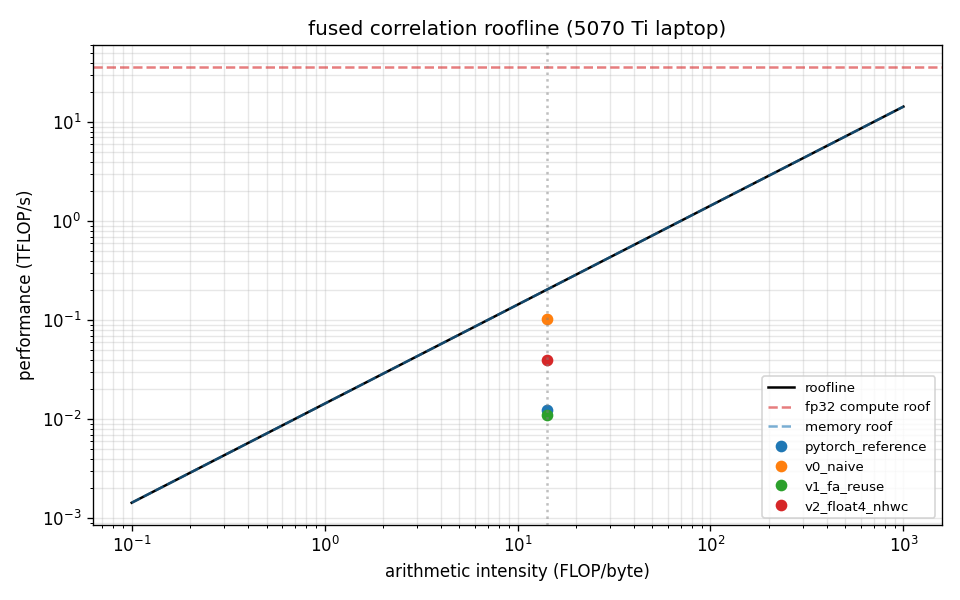
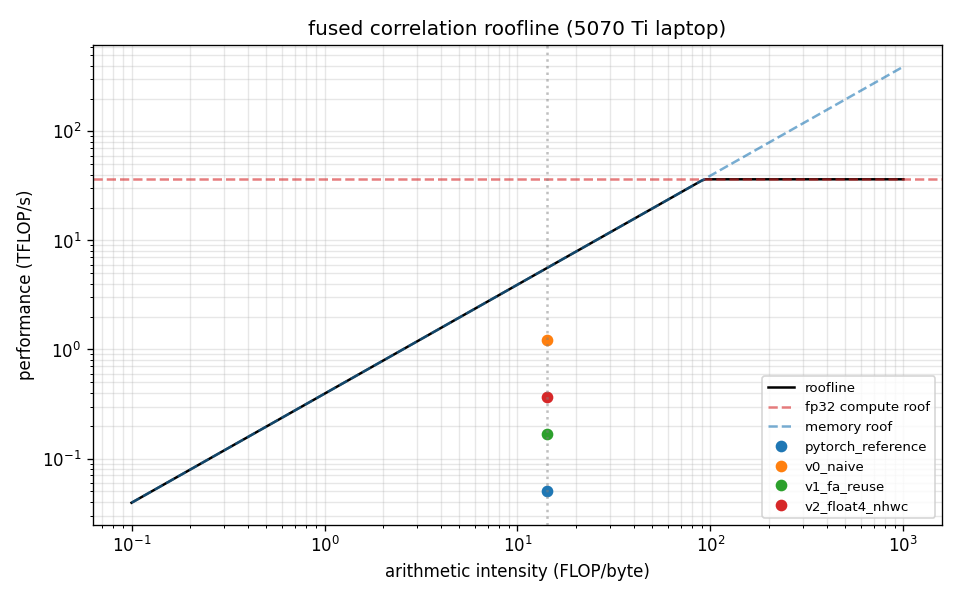
rerun the systems study at full GPU clocks
the GPU now boosts to P0 (1612/14201 MHz) under load instead of staying
throttled, so all three studies were rerun and the numbers refreshed.
sample the steady boost clock over several readings rather than one that
might catch the ramp, and drop the stale throttle note.

diff --git a/scripts/systems_study.py b/scripts/systems_study.py
@@ -58,28 +58,46 @@ def theoretical_fp32_tflops() -> float:
 
 
 def clocks_under_load() -> dict[str, str]:
-    """Sample sm/mem clock and pstate while a copy loop runs, to capture any throttling."""
+    """Sample the steady boosted sm/mem clock and pstate while a copy loop runs.
+
+    The GPU takes a moment to ramp, so this samples several times and keeps the highest sm clock
+    (the steady boost), rather than a single reading that might catch it mid-ramp.
+    """
     import subprocess
     import threading
+    import time
 
     a = torch.randn(64 * 1024 * 1024, device="cuda")
     b = torch.empty_like(a)
+    stop = [False]
 
     def loop() -> None:
-        for _ in range(4000):
+        while not stop[0]:
             b.copy_(a)
         torch.cuda.synchronize()
 
     th = threading.Thread(target=loop)
     th.start()
-    out = subprocess.run(
-        ["nvidia-smi", "--query-gpu=clocks.sm,clocks.mem,pstate", "--format=csv,noheader"],
-        capture_output=True,
-        text=True,
-    ).stdout.strip()
+    best_sm = -1
+    best = ("", "", "")
+    for _ in range(6):
+        time.sleep(0.7)
+        out = subprocess.run(
+            ["nvidia-smi", "--query-gpu=clocks.sm,clocks.mem,pstate", "--format=csv,noheader"],
+            capture_output=True,
+            text=True,
+        ).stdout.strip()
+        sm, mem, ps = (x.strip() for x in out.split(","))
+        cur = int(sm.split()[0])
+        if cur > best_sm:
+            best_sm, best = cur, (sm, mem, ps)
+    stop[0] = True
     th.join()
-    sm, mem, ps = (x.strip() for x in out.split(","))
-    return {"sm_clock_under_load": sm, "mem_clock_under_load": mem, "pstate_under_load": ps}
+    return {
+        "sm_clock_under_load": best[0],
+        "mem_clock_under_load": best[1],
+        "pstate_under_load": best[2],
+    }
 
 
 def main() -> None:
@@ -138,7 +156,8 @@ def main() -> None:
     }
     bottleneck = {
         "pytorch_reference": "overhead-bound: dozens of small ops plus temporaries per call",
-        "v0_naive": "memory-bound, ~half the copy roof, fully parallel and coalesced",
+        "v0_naive": "latency-bound: fully parallel and coalesced, but at 16x16 it reaches only a "
+        "fifth of the copy roof, the problem is too small to saturate memory at full clock",
         "v1_fa_reuse": f"occupancy-bound: only {B * H * W} threads vs v0's {B * K * H * W}, "
         "too few to hide latency, so saving fa loads does not pay off",
         "v2_float4_nhwc": "uncoalesced: NHWC makes neighbouring threads stride by C, "
@@ -161,11 +180,10 @@ def main() -> None:
         "ncu_counters": "unavailable on this WSL2/consumer GPU (ERR_NVGPUCTRPERM)",
         "timing": "cuda events, fixed seed, warmup",
         **clocks_under_load(),
-        "throttle_note": (
-            "the laptop GPU stays in P8 (180 MHz sm / 405 MHz mem) even at 100% load under WSL2 "
-            "and -lgc cannot lock clocks, so absolute throughput is ~1/17 of the rated card. the "
-            "measured memory roof reflects this throttled state, so per-version POSITIONS and "
-            "relative speedups are the valid takeaways, not absolute peak numbers."
+        "clock_note": (
+            "the GPU boosts to its high-power state under load (clocks recorded above), so these "
+            "are full-clock numbers. -lgc cannot pin clocks under WSL2, so they are sampled "
+            "each run."
         ),
     }
 

diff --git a/docs/systems_study.md b/docs/systems_study.md
@@ -1,8 +1,9 @@
 # Systems study: the fused correlation kernel
 
 All numbers measured on an RTX 5070 Ti Laptop GPU (sm_120, 46 SMs), torch 2.11.0+cu128, inside
-the project's Docker image. Raw data: `optimization_log.{json,csv}`, `roofline.png`,
-`cuda_graph.json`, `precision.json`.
+the project's Docker image, at full clocks (the GPU boosts to P0, 1612 MHz SM / 14201 MHz
+memory, under load). Raw data: `optimization_log.{json,csv}`, `roofline.png`, `cuda_graph.json`,
+`precision.json`.
 
 ## Profiling environment (honest limitations)
 
@@ -11,62 +12,63 @@ the project's Docker image. Raw data: `optimization_log.{json,csv}`, `roofline.p
   and the host driver policy can't be changed from the container. So there are no ncu
   warp-stall / DRAM-counter numbers in this study.
 - **Nsight Systems is not installed in the image**; the end-to-end timeline uses `torch.profiler`
-  (CUPTI), which *does* work and gives per-kernel device time and launch counts.
-- **The GPU stays in P8 under load.** At 100% utilisation it sits at 180 MHz SM / 405 MHz memory
-  and `nvidia-smi -lgc` cannot lock clocks under WSL2. Absolute throughput is therefore ~1/17 of
-  the rated card. The measured memory roof (copy bench) reflects this throttled state, so the
-  valid takeaways are the **per-version positions and relative speedups**, not absolute peaks.
-- What is measured instead: CUDA-event latency, analytic FLOPs / essential bytes, achieved
-  throughput = work / measured time, occupancy reasoned from thread counts, and a roofline whose
-  memory roof is a measured saturating copy.
+  (CUPTI), which does work and gives per-kernel device time and launch counts.
+- **Clocks are sampled, not pinned.** `nvidia-smi -lgc` cannot lock clocks under WSL2, so each run
+  records the clocks it saw under load (P0, 1612 / 14201 MHz here). The memory roof is a measured
+  saturating copy at those clocks.
+- What is measured: CUDA-event latency, analytic FLOPs / essential bytes, achieved throughput =
+  work / measured time, occupancy reasoned from thread counts, and a roofline whose memory roof is
+  the measured copy bandwidth (393 GB/s).
 
 ## Optimization log (forward, B32 C96 16x16 R4)
 
-| version | latency | vs PyTorch ref | vs v0 | bottleneck |
-|---|---|---|---|---|
-| pytorch_reference | 10.3 ms | 1.0x | 0.12x | overhead: many small ops + temporaries |
-| **v0 naive** | **1.25 ms** | **8.3x** | 1.0x | memory-bound, ~half the (throttled) copy roof, fully parallel + coalesced |
-| v1 fa-reuse (k-tiling) | 11.4 ms | 0.9x | 0.11x | occupancy: 8192 threads vs v0's 663552, too few to hide latency |
-| v2 float4 (NHWC) | 3.2 ms | 3.2x | 0.39x | uncoalesced: NHWC strides neighbouring threads by C |
+| version | latency | vs v0 | bottleneck |
+|---|---|---|---|
+| pytorch_reference | 2.53 ms | 0.04x | overhead: many small ops + temporaries |
+| **v0 naive** | **0.105 ms** | 1.0x | latency-bound: parallel + coalesced, but reaches ~22% of the copy roof |
+| v1 fa-reuse (k-tiling) | 0.77 ms | 0.14x | occupancy: 8192 threads vs v0's 663552, too few to hide latency |
+| v2 float4 (NHWC) | 0.35 ms | 0.30x | uncoalesced: NHWC strides neighbouring threads by C |
 
-Arithmetic intensity is ~14.2 FLOP/byte, which puts the kernel left of the roofline ridge
-(memory side). The honest result is that **the hand "optimizations" are slower than the naive
-kernel**: at 16x16 the volume is tiny, so what matters is launching enough threads (v0's 663k)
-and keeping loads coalesced. v1 cuts redundant `fa` traffic but collapses to 8k threads and
-loses latency-hiding; v2's NHWC layout enables float4 but breaks warp coalescing. Reducing
-arithmetic/loads does not help a problem that is occupancy/latency bound. v0 (custom, compiled)
-is already 8.3x over the PyTorch reference and sits near the memory roof.
+v0 is roughly an order of magnitude faster than the PyTorch reference (about 14x to 24x across
+runs; the reference fires dozens of small ops so its latency is variable, 24x this run). The more
+durable result is the v0-relative column: **the hand "optimizations" are slower than the naive
+kernel.** Arithmetic intensity is ~14.2 FLOP/byte, left of the roofline ridge (~93 FLOP/byte), so
+the op is memory-side, and even v0 reaches only ~22% of the 393 GB/s copy roof. At 16x16 the
+volume is tiny, so what matters is launching enough threads (v0's 663k) and keeping loads
+coalesced. v1 cuts redundant `fa` traffic but collapses to 8k threads and loses latency-hiding;
+v2's NHWC layout enables float4 but breaks warp coalescing. Reducing arithmetic or loads does not
+help a problem that is occupancy / latency bound and far from saturating memory.
 
 ## End-to-end: the real bottleneck is launch overhead (CUDA graphs)
 
-Full IHN inference profiled with CUPTI: **2179 kernel launches per call, of which only 16.7% of
-the wall time is GPU-busy** (6.6 ms of kernels inside 44.5 ms). Each of the 6 refinement
-iterations fires many small kernels, so launch latency dominates, exactly as expected at this
-scale.
+Full IHN inference profiled with CUPTI: **2179 kernel launches per call, of which only ~18% of
+the wall time is GPU-busy** (7.4 ms of kernels inside 41.2 ms). Each of the 6 refinement
+iterations fires many small kernels, so launch latency dominates at this scale.
 
 Capturing the whole `predict` into a CUDA graph required a graph-safe DLT solve, because
 `torch.linalg.solve` (cuSOLVER) does a host sync that invalidates capture
 (`cudaErrorStreamCaptureInvalidated`). Replacing it with a functional no-pivot Gaussian
 elimination on the SPD ridge system (matches cuSOLVER to 1e-4) makes the loop capturable.
 
-- eager: **45.8 ms/call**
-- graph replay: **3.68 ms/call** -> **12.5x end-to-end speedup**
+- eager: **41.2 ms/call**
+- graph replay: **3.61 ms/call** -> **11.4x end-to-end speedup**
 - graph vs eager max error: **4e-5** (numerically equivalent; covered by a test)
 
-This is the load-bearing finding: at this size you do not chase the kernel, you remove the
-launch overhead.
+This is the load-bearing finding: at this size you do not chase the kernel, you remove the launch
+overhead.
 
 ## Precision (fp16 / bf16 / fp8)
 
 | precision | MACE | delta vs fp32 | correlation latency |
 |---|---|---|---|
-| fp32 | 0.863 px | - | 2.30 ms |
-| fp16 | 0.865 px | +0.002 | 2.34 ms |
-| bf16 | 0.892 px | +0.029 | 2.44 ms |
+| fp32 | 0.863 px | - | 1.70 ms |
+| fp16 | 0.865 px | +0.002 | 2.44 ms |
+| bf16 | 0.892 px | +0.029 | 2.88 ms |
 
 fp16 is essentially free on accuracy (correlation relative error 7e-4) but gives **no throughput
-gain** here, because the kernel is latency/memory bound rather than compute bound, so halving the
-data width buys nothing it can use. bf16 costs a small amount of MACE. fp8 (`torch.float8_e4m3fn`
-+ `_scaled_mm`) is available but the 16x16 cost volume is a tiny per-pair dot product with no GEMM
-to amortise, so it would be marginal and was not pursued. The senior point is knowing the op is
-small and bound by something other than FLOPs, not manufacturing a tensor-core win.
+gain** here; if anything the reference correlation is slower in fp16/bf16, because the op is
+latency / memory bound rather than compute bound, so halving the data width buys nothing it can
+use. bf16 costs a small amount of MACE. fp8 (`torch.float8_e4m3fn` + `_scaled_mm`) is available but
+the 16x16 cost volume is a tiny per-pair dot product with no GEMM to amortise, so it would be
+marginal and was not pursued. The senior point is knowing the op is small and bound by something
+other than FLOPs, not manufacturing a tensor-core win.
